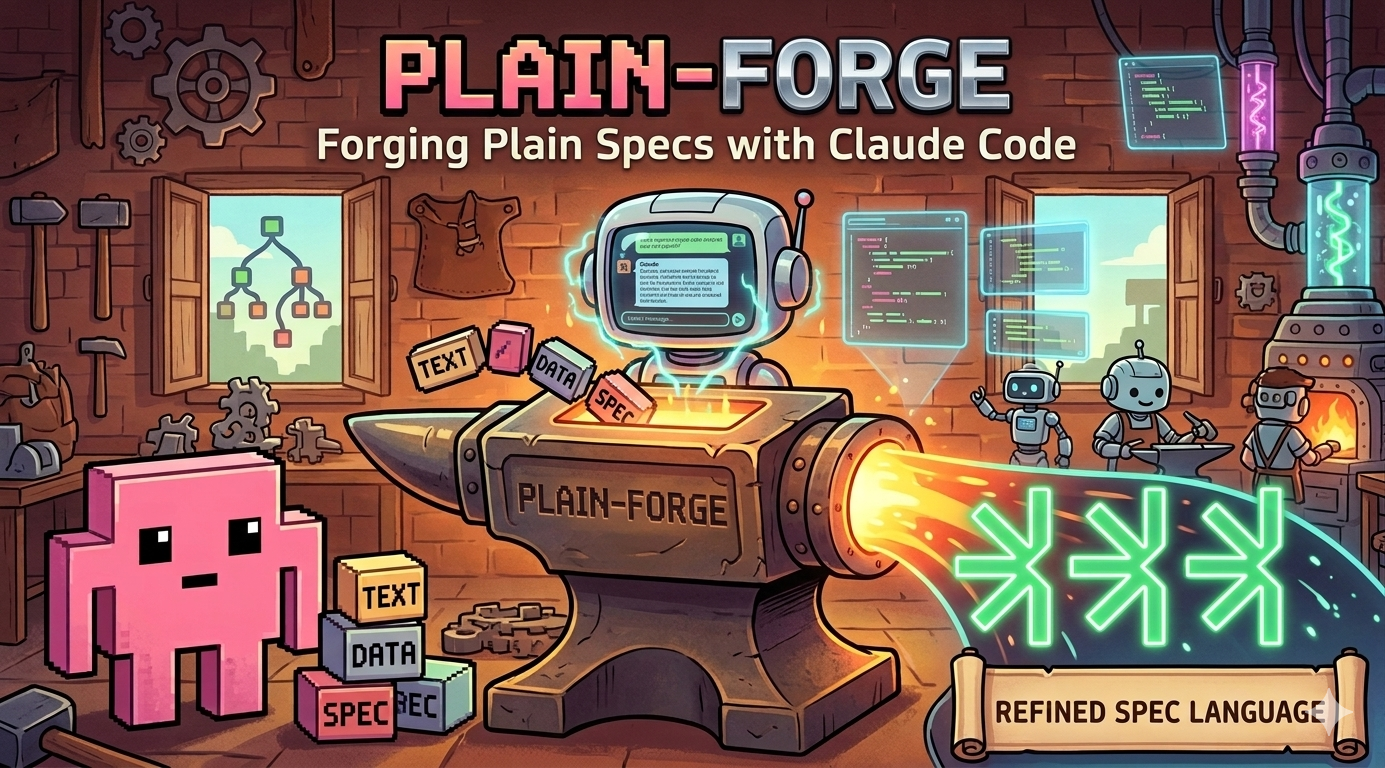
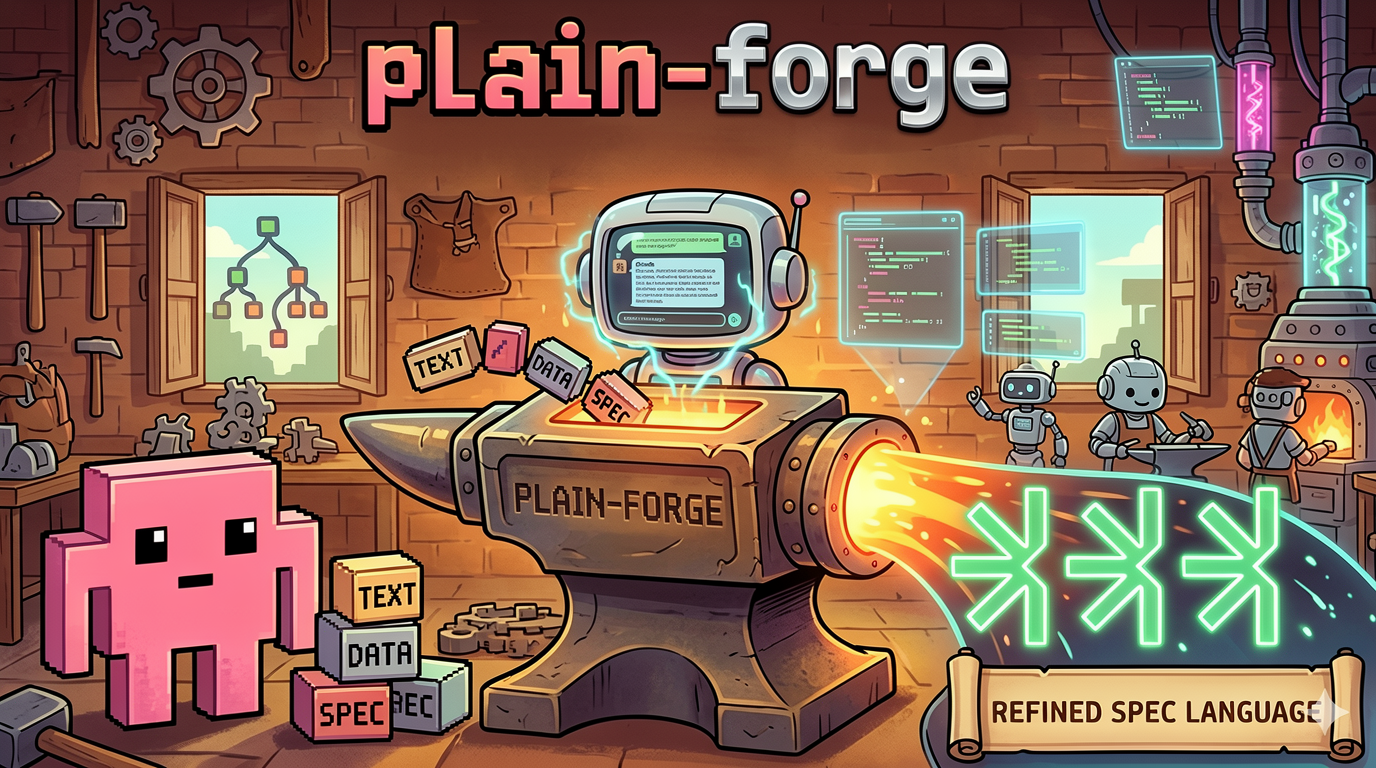
Updating README.md

diff --git a/README.md b/README.md
@@ -1,29 +1,29 @@
 <p align="center">
-  <img src="assets/plain-forge.png" alt="Plain Forge" width="600" />
+  <img src="assets/plain-forge.png" alt="plain-forge" width="600" />
 </p>
 
 # plain-forge
 
-A conversational spec-writing tool powered by [Claude Code](https://claude.ai/claude-code) and the [***plain](https://plainlang.org) specification language. Describe what you want to build in plain English, and Plain Forge guides you through a structured interview to produce complete `.plain` spec files — which then generate production-ready code via the [Codeplain](https://codeplain.ai) renderer.
+A conversational spec-writing tool that runs in any AI coding agent (Claude Code, Codex, OpenCode, and more) and is built on the [***plain](https://plainlang.org) specification language. Describe what you want to build in plain English, and plain-forge guides you through a structured interview to produce complete `.plain` spec files — which then generate production-ready code via the [Codeplain](https://codeplain.ai) renderer.
 
 ## How It Works
 
-Plain Forge turns a conversation into software specs through four phases:
+The main entry point is `/forge-plain`. It turns a conversation into ***plain specs through four phases:
 
-1. **What are we building?** — Define the product, users, and scope.
-2. **What technologies?** — Choose language, framework, storage, and testing tools.
-3. **How does it work?** — Detail entities, features, user flows, and business rules.
-4. **Write the specs** — Plain Forge produces `.plain` files from your answers.
+1. **What are we building?** — Walk through the product: description, users, scope, core entities, key features, user flows, business rules, and (if applicable) UI behavior. Produces the `***definitions***` and `***functional specs***` for each module.
+2. **What technologies should it use?** — Pick the stack and architecture: language, frameworks, data storage, external services, project structure, and any other stack-wide constraints. Produces the `***implementation reqs***`.
+3. **How should testing be done?** — Decide the testing strategy: framework, test types in scope, conformance/acceptance tests, environment-preparation scripts, layout, and execution. Produces the `***test reqs***`, any `***acceptance tests***`, the runnable scripts under `test_scripts/`, and the `config.yaml`(s) wiring them in. plain-forge then probes your machine to confirm everything those scripts need is actually installed.
+4. **Next steps** — plain-forge identifies the final module in the dependency chain and gives you the exact `codeplain <module>.plain` command to render the specs into code.
 
-Each phase uses structured questions to eliminate ambiguity. You confirm the output of each phase before moving on.
+Each phase is **incremental**, not a single long questionnaire. plain-forge walks one topic at a time, runs an **ask → author → review** loop on every topic — structured questions, immediate edits to the `.plain` files (and `test_scripts/` / `config.yaml` in Phase 3), then snippet-by-snippet confirmation — and only moves on once every flagged snippet is explicitly approved.
 
 ## Getting Started
 
-Plain Forge ships as a set of skills that plug into your AI coding tool of choice. Install it once, then invoke `/forge-plain` (or `/add-feature`) from any project.
+plain-forge ships as a set of skills that plug into your AI coding tool of choice. Install it once, then invoke `/forge-plain` (or `/add-feature` to add a feature to an existing ***plain project) from any project.
 
 ### Install with the `skills` CLI (any runtime)
 
-The fastest way to add Plain Forge to whatever runtime you have installed locally:
+The fastest way to add plain-forge to whatever runtime you have installed locally:
 
 ```bash
 npx skills add https://github.com/Codeplain-ai/plain-forge
@@ -55,7 +55,7 @@ Requires the [Claude Code CLI](https://docs.anthropic.com/en/docs/claude-code) i
 /plugin install plain-forge@plain-forge
 ```
 
-The first command registers this repository as a plugin marketplace; the second installs the `plain-forge` plugin from it. All Plain Forge skills become available in that session.
+The first command registers this repository as a plugin marketplace; the second installs the `plain-forge` plugin from it. All plain-forge skills become available in that session.
 
 ### Install in Codex
 
@@ -69,23 +69,51 @@ This registers the repository as a Codex marketplace and exposes the `plain-forg
 
 ### Install in OpenCode
 
-Plain Forge also ships an OpenCode-compatible skill set under `.opencode/`. To use it, point OpenCode at this repository — for example by telling the agent:
+plain-forge also ships an OpenCode-compatible skill set under `.opencode/`. To use it, point OpenCode at this repository — for example by telling the agent:
 
 > "Use the skills in `github.com/Codeplain-ai/plain-forge` (the `.opencode/` directory)."
 
 OpenCode picks up the skills automatically once the repo is in its context.
 
-### Usage
+## Usage
 
-1. Open your project folder and start a session in Claude Code or OpenCode.
-2. Make sure the plugin is available
-2. Invoke `/forge-plain` to start the QA workflow for a new project, or `/add-feature` to add a feature to an existing one.
-3. Answer the questions. Plain Forge writes the `.plain` files for you.
-4. Render specs into code using the [Codeplain](https://codeplain.ai) renderer.
+### Prerequisites
+
+1. Open your project folder and start a session in your favorite AI coding agent (Claude Code, OpenCode, Codex, …).
+2. Make sure the plain-forge skills are available in that session.
+
+### Starting a new project
+
+1. Invoke `/forge-plain` to launch the structured QA workflow.
+2. Answer the questions. plain-forge writes the `.plain` files for you as you go through the four phases.
+3. Render the specs into code with the [Codeplain](https://codeplain.ai) renderer:
+
+   ```bash
+   codeplain <module>.plain
+   ```
+
+   plain-forge prints the exact command (with the right final module name) at the end of Phase 4.
+
+### Adding a feature to an existing project
+
+1. Invoke `/add-feature`.
+2. Describe the feature in plain English. plain-forge runs the same **ask → author → review** loop scoped to that feature and updates the relevant `.plain` file(s).
+3. Re-render with `codeplain <module>.plain` to regenerate the code.
+
+### Debugging specs
+
+Hit a bug in the rendered app, a failing test, or behavior that doesn't match what you specified?
+
+1. Invoke `/debug-specs`. plain-forge reads the generated code in `plain_modules/` (and the failing tests, if any), traces the issue back to the responsible `.plain` spec, and diagnoses the root cause — **ambiguous spec**, **missing spec**, **conflicting specs**, **incorrect spec**, or a **missing implementation req**.
+2. plain-forge applies the fix in the `.plain` file(s) only and summarizes what changed.
+3. Re-render with `codeplain <module>.plain` to regenerate the code.
+
+> **Important:** Never edit generated code under `plain_modules/` or `conformance_tests/` directly — your changes will be overwritten on the next render. Always fix the spec and re-render.
+
 
 ## Repository Structure
 
-Plain Forge keeps a single canonical source of truth under `forge/` and uses tiny per-runtime adapters to regenerate the directory layout each AI tool expects. The generated outputs are committed so existing install commands keep working — no build step is needed for end users.
+plain-forge keeps a single canonical source of truth under `forge/` and uses tiny per-runtime adapters to regenerate the directory layout each AI tool expects. The generated outputs are committed so existing install commands keep working — no build step is needed for end users.
 
 ```
 forge/                       # canonical, runtime-neutral content
